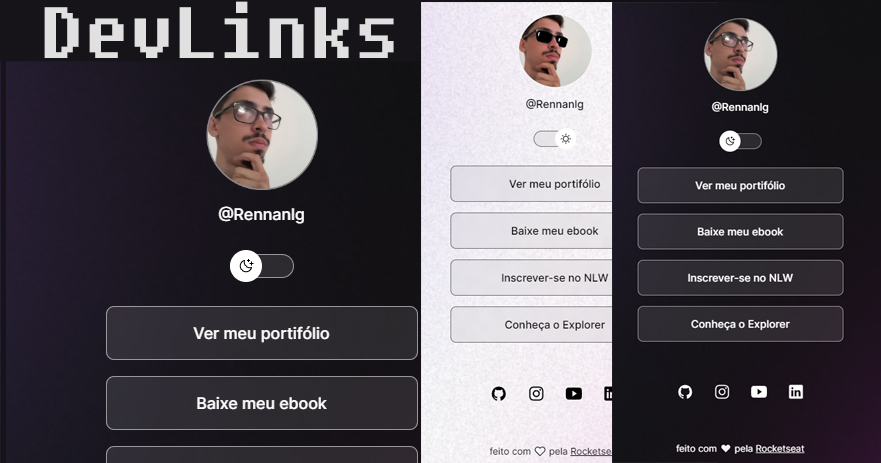
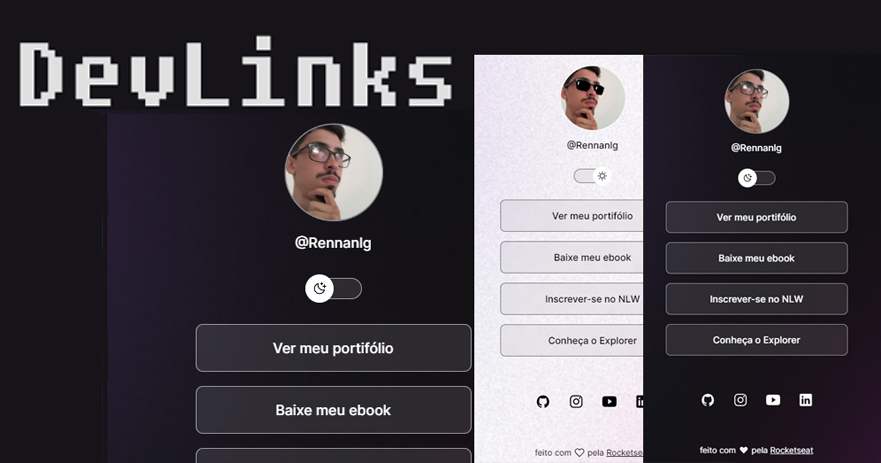
adjust width

diff --git a/style.css b/style.css
@@ -40,7 +40,8 @@ body * {
 }
 
 #container {
-  width: 360px;
+  width: 100%;
+  max-width: 588px;
   padding: 0 24px;
   margin: 56px auto 0px;
   /*margem, começando de cima roda sentido horário pra aplicar em shorthand
